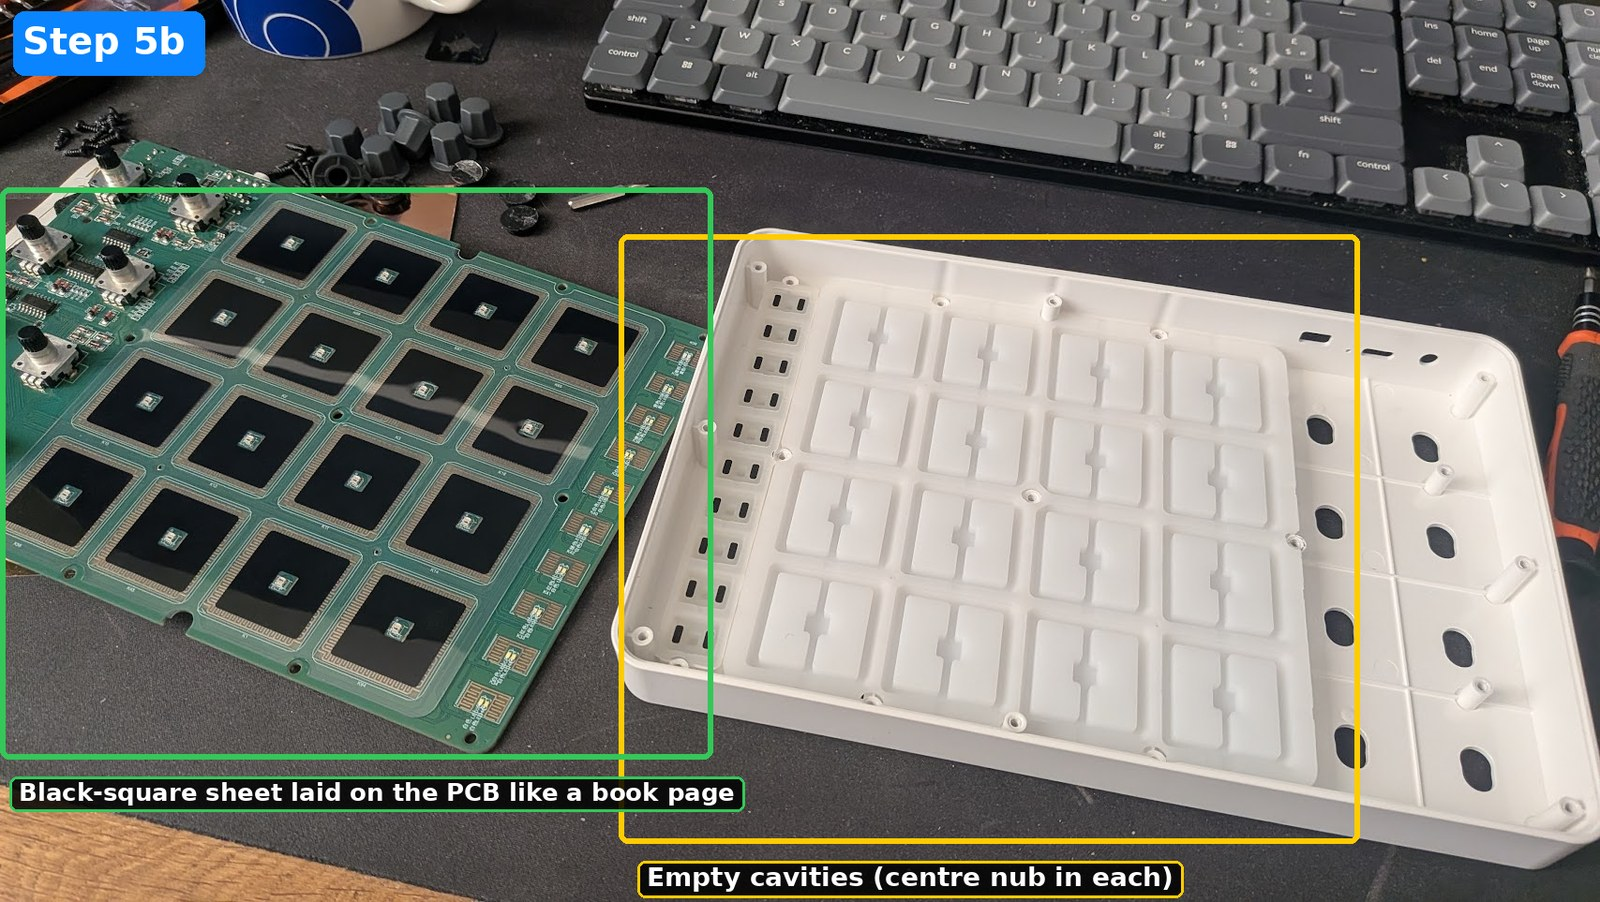
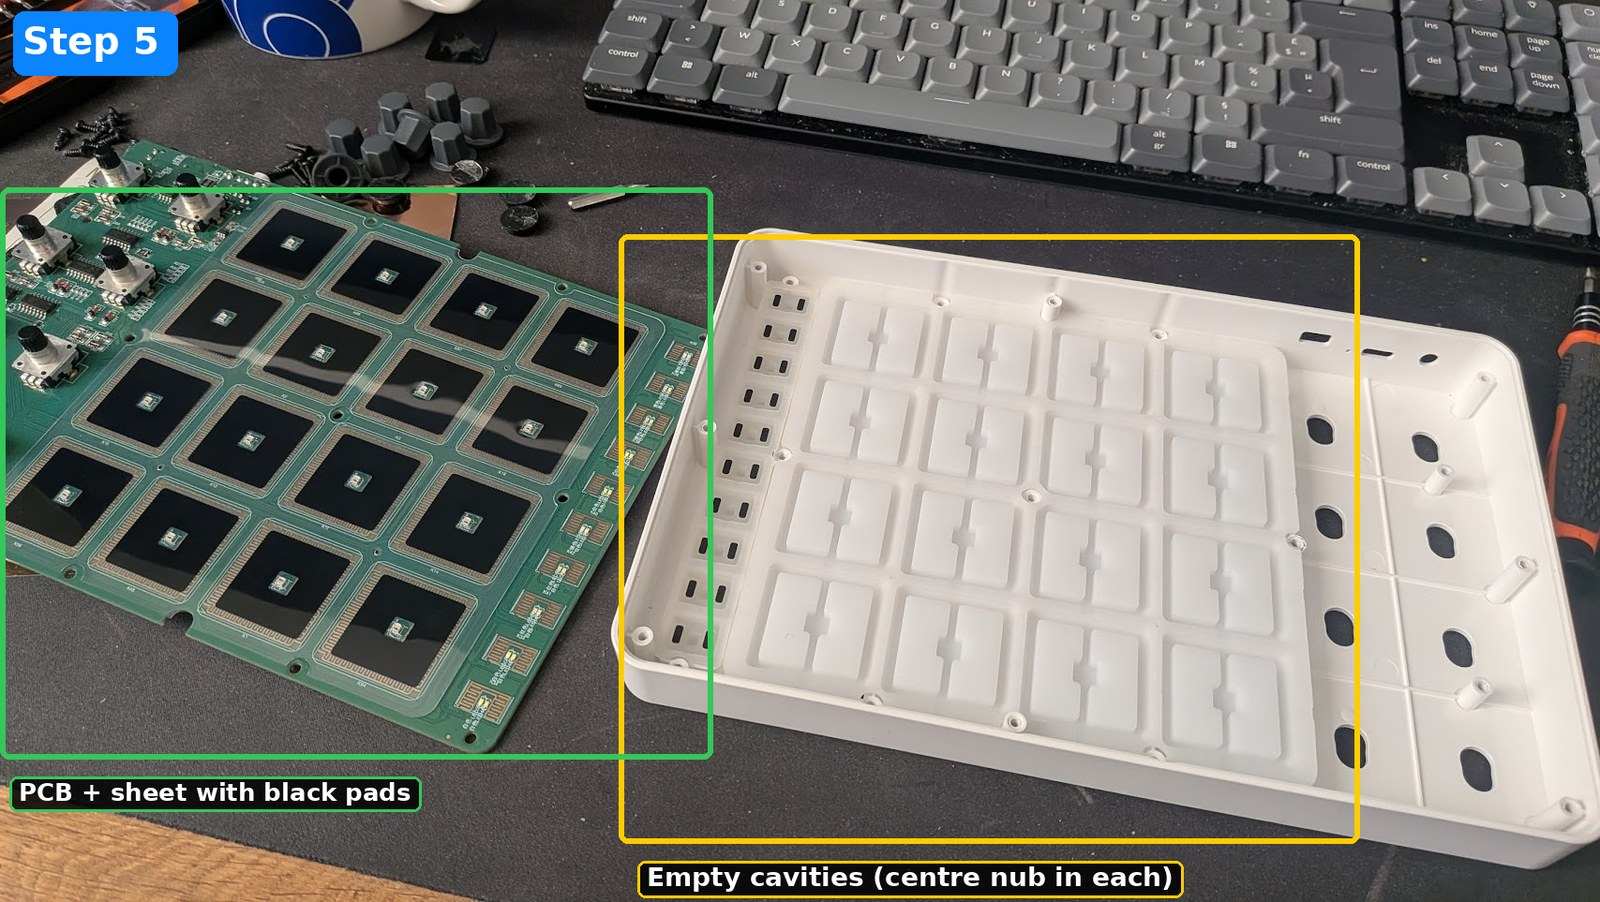
Step 5: keep a single photo, relabel PCB + sheet with black pads
Claude-Session: https://claude.ai/code/session_015ngzumRVhKgTpj7vppR9fs

Changed region(s): [[0.0, 0.8381, 0.4688, 0.9002], [0.0938, 0.0, 0.1562, 0.0931]]

diff --git a/README.md b/README.md
@@ -105,8 +105,6 @@ Undo the 9 black screws that hold the PCB. The photo shows the 9 screw holes, wi
 
 Take the PCB out gently. The sheet with the black squares is a **separate, loose sheet**, not attached to the PCB or to the case. **Pay attention to its orientation**: it must go back the same way up and the same way round. The easy way: lay it down on the PCB as if you were opening the page of a book, so it keeps its orientation. The pad cavities in the top shell are now empty. Leave the sheet lying on the PCB for the next step.
 
-![PCB out](images/05-pcb-out.jpg)
-
 ![Empty cavities](images/06-cavities-empty.jpg)
 
 ### 6. Stick the spacers on the transparent sheet
